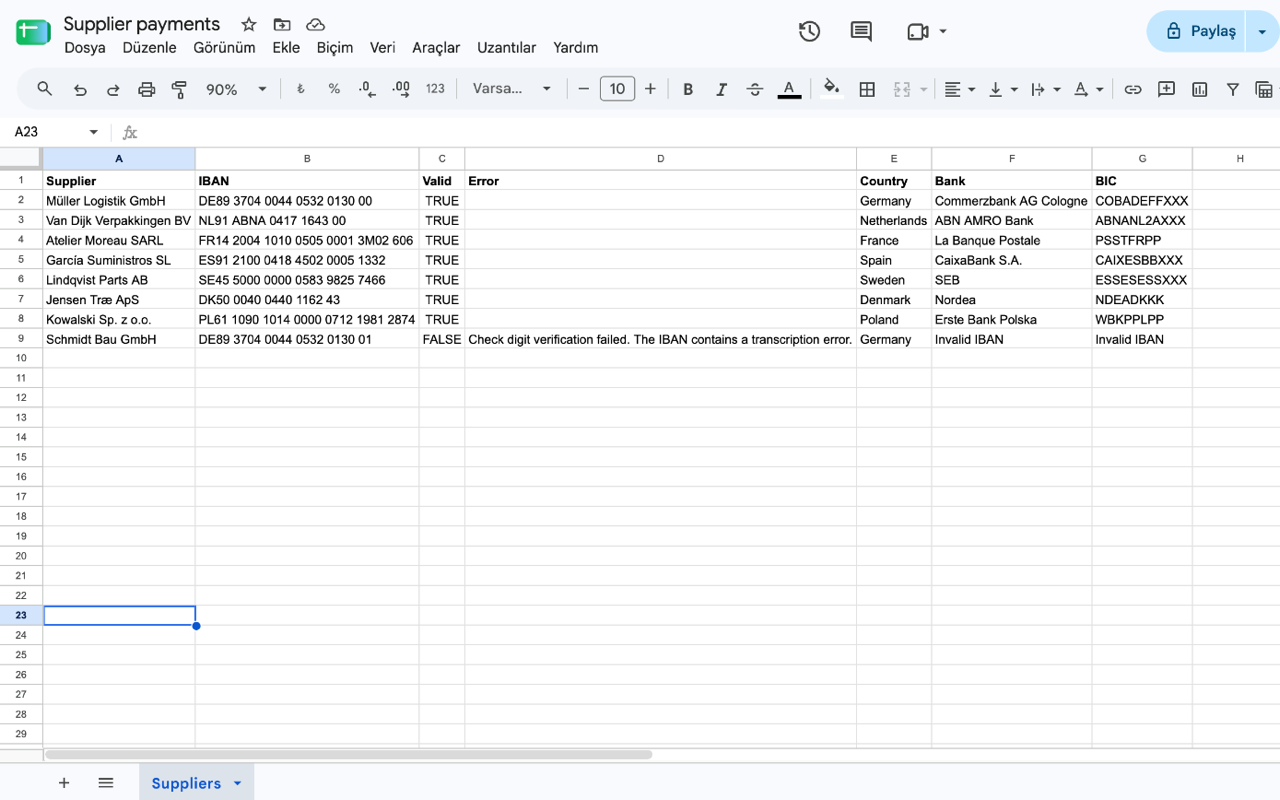
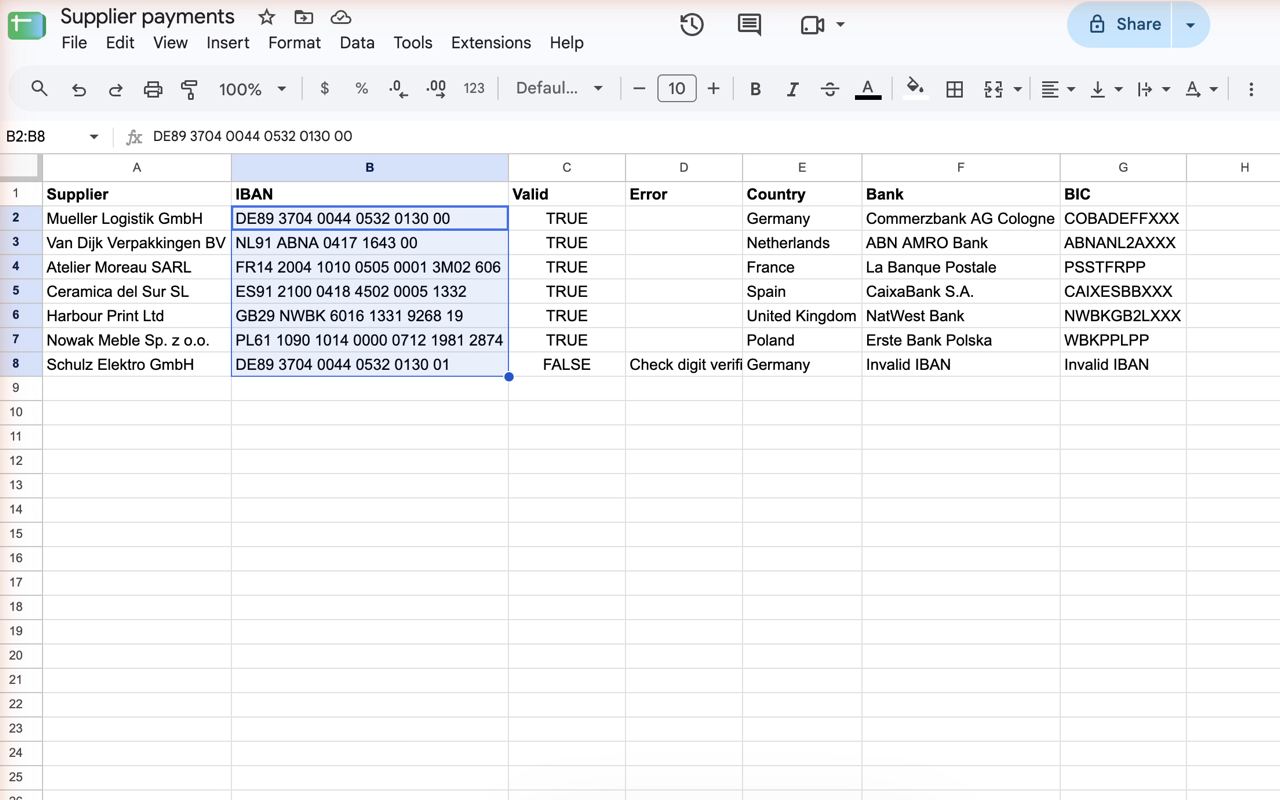
Say when formulas load in a spreadsheet and what the multi-account sidebar error means; English screenshots

Changed region(s): [[0.0, 0.1562, 1.0, 1.0], [0.0, 0.0, 1.0, 0.0625], [0.0, 0.0938, 1.0, 0.125]]

diff --git a/README.md b/README.md
@@ -8,6 +8,10 @@ Validation is done by the ibanchecker.cash API, the same engine as the website, 
 
 From the Google Workspace Marketplace (listing pending Google's review), then in any spreadsheet open **Extensions > IBAN Checker by ibanchecker.cash > Settings and API key** and paste your key. A free key is available at [ibanchecker.cash/api-docs](https://ibanchecker.cash/api-docs).
 
+In every other spreadsheet, open the add-on's menu once before typing a formula: Google Sheets loads an add-on's formulas in a spreadsheet only after the add-on has been used there. A formula typed before that shows `#NAME?` until the spreadsheet is reloaded.
+
+If the sidebar says "Authorization is required to perform that action", the browser is signed in to several Google accounts and the spreadsheet is open in one that is not the first; Apps Script sends the sidebar's request as the first account. Open the spreadsheet in a window signed in only to the account that installed the add-on.
+
 ## Formulas
 
 Every formula takes a single cell or a range and returns a result of the same shape.
